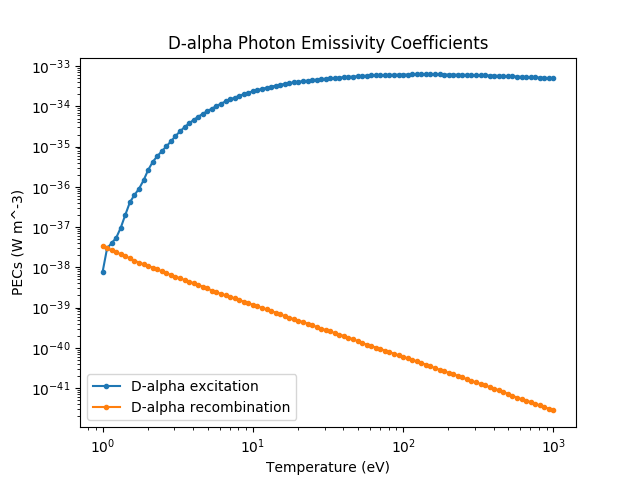
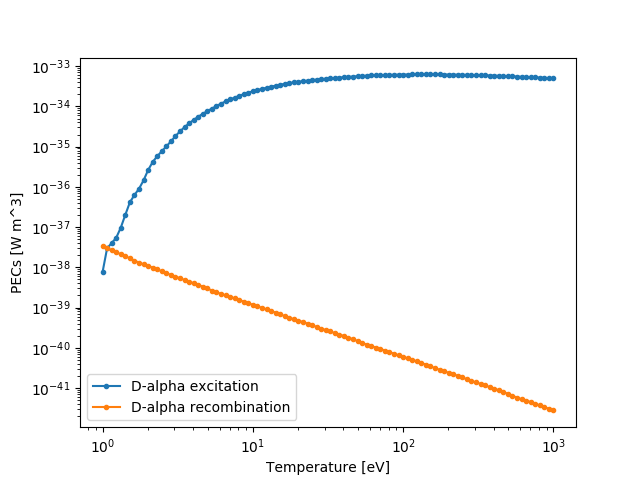
Updating the documentation to reflect the Atomic Rates interface change. Also correcting the units for PECs.

Changed region(s): [[0.25, 0.0625, 0.75, 0.125], [0.0, 0.375, 0.0312, 0.625]]

diff --git a/docs/source/atomic/rate_coefficients.rst b/docs/source/atomic/rate_coefficients.rst
@@ -18,13 +18,13 @@ them after they have been instantiated.
 Photon Emissivity Coefficients
 ^^^^^^^^^^^^^^^^^^^^^^^^^^^^^^
 
-.. autoclass:: cherab.core.atomic.rates.ImpactExcitationRate
+.. autoclass:: cherab.core.atomic.rates.ImpactExcitationPEC
 
-.. autoclass:: cherab.core.atomic.rates.RecombinationRate
+.. autoclass:: cherab.core.atomic.rates.RecombinationPEC
 
-.. autoclass:: cherab.core.atomic.rates.ThermalCXRate
+.. autoclass:: cherab.core.atomic.rates.ThermalCXPEC
 
-The PEC `ImpactExcitationRate`, `RecombinationRate` and `ThermalCXRate` classes all share
+The `ImpactExcitationPEC`, `RecombinationPEC` and `ThermalCXPEC` classes all share
 the same call signatures.
 
 .. function:: __call__(density, temperature)
@@ -41,7 +41,7 @@ the same call signatures.
 
    :param float temperature: Receiver ion temperature in eV.
    :param float density: Receiver ion density in m^-3
-   :return: The effective PEC rate in W/m^3.
+   :return: The effective PEC rate [Wm^3].
 
 Some example code for requesting PEC objects and sampling them with the __call__()
 method.
@@ -57,9 +57,9 @@ method.
    >>> adas = OpenADAS()
    >>>
    >>> # request d-alpha instance of ImpactExcitationRate
-   >>> dalpha_excit = adas.impact_excitation_rate(deuterium, 0, (3, 2))
+   >>> dalpha_excit = adas.impact_excitation_pec(deuterium, 0, (3, 2))
    >>> # request d-alpha instance of RecombinationRate
-   >>> dalpha_recom = adas.recombination_rate(deuterium, 0, (3, 2))
+   >>> dalpha_recom = adas.recombination_pec(deuterium, 0, (3, 2))
    >>>
    >>> # evaluate D-alpha ImpactExcitationRate PEC at n_e = 1E19 m^-3 and t_e = 2 eV
    >>> dalpha_excit(1E19, 2)
@@ -77,9 +77,9 @@ Beam-Plasma Interaction Rates
 
 .. autoclass:: cherab.core.atomic.rates.BeamPopulationRate
 
-.. autoclass:: cherab.core.atomic.rates.BeamEmissionRate
+.. autoclass:: cherab.core.atomic.rates.BeamEmissionPEC
 
-The `BeamStoppingRate`, `BeamPopulationRate` and `BeamEmissionRate` classes all share
+The `BeamStoppingRate`, `BeamPopulationRate` and `BeamEmissionPEC` classes all share
 the same call signatures.
 
 .. function:: __call__(energy, density, temperature)
@@ -119,7 +119,7 @@ method.
    7.599066e-10
    >>>
    >>> # Sample the beam emission rate
-   >>> bme = adas.beam_emission_rate(deuterium, deuterium, 1, (3, 2))
+   >>> bme = adas.beam_emission_pec(deuterium, deuterium, 1, (3, 2))
    >>> bme(50000, 1E19, 1)
    8.651598e-34
 

diff --git a/docs/source/demonstrations/atomic_data/photon_emissivity_coefficients.rst b/docs/source/demonstrations/atomic_data/photon_emissivity_coefficients.rst
@@ -18,9 +18,9 @@ method.
    >>> adas = OpenADAS()
    >>>
    >>> # request d-alpha instance of ImpactExcitationRate
-   >>> dalpha_excit = adas.impact_excitation_rate(deuterium, 0, (3, 2))
+   >>> dalpha_excit = adas.impact_excitation_pec(deuterium, 0, (3, 2))
    >>> # request d-alpha instance of RecombinationRate
-   >>> dalpha_recom = adas.recombination_rate(deuterium, 0, (3, 2))
+   >>> dalpha_recom = adas.recombination_pec(deuterium, 0, (3, 2))
    >>>
    >>> # settings for plot range
    >>> temp_low = 1
@@ -37,8 +37,8 @@ method.
    >>> plt.figure()
    >>> plt.loglog(electron_temperatures, dalpha_excit_pecs, '.-', label="D-alpha excitation")
    >>> plt.loglog(electron_temperatures, dalpha_recom_pecs, '.-', label="D-alpha recombination")
-   >>> plt.xlabel("Temperature (eV)")
-   >>> plt.ylabel("PECs (W m^-3)")
+   >>> plt.xlabel("Temperature [eV]")
+   >>> plt.ylabel("PECs [W m^3]")
    >>> plt.legend()
    >>> plt.show()
 

diff --git a/docs/source/demonstrations/atomic_data/beam_plasma_interactions.rst b/docs/source/demonstrations/atomic_data/beam_plasma_interactions.rst
@@ -58,7 +58,7 @@ method.
    >>> plt.legend()
    >>>
    >>> # Sample the beam emission rates
-   >>> bme = adas.beam_emission_rate(deuterium, deuterium, 1, (3, 2))
+   >>> bme = adas.beam_emission_pec(deuterium, deuterium, 1, (3, 2))
    >>> bme_rates_1 = [bme(x, 1E19, 1) for x in beam_energies]
    >>> bme_rates_2 = [bme(x, 1E19, 100) for x in beam_energies]
    >>> bme_rates_3 = [bme(x, 1E19, 1000) for x in beam_energies]
